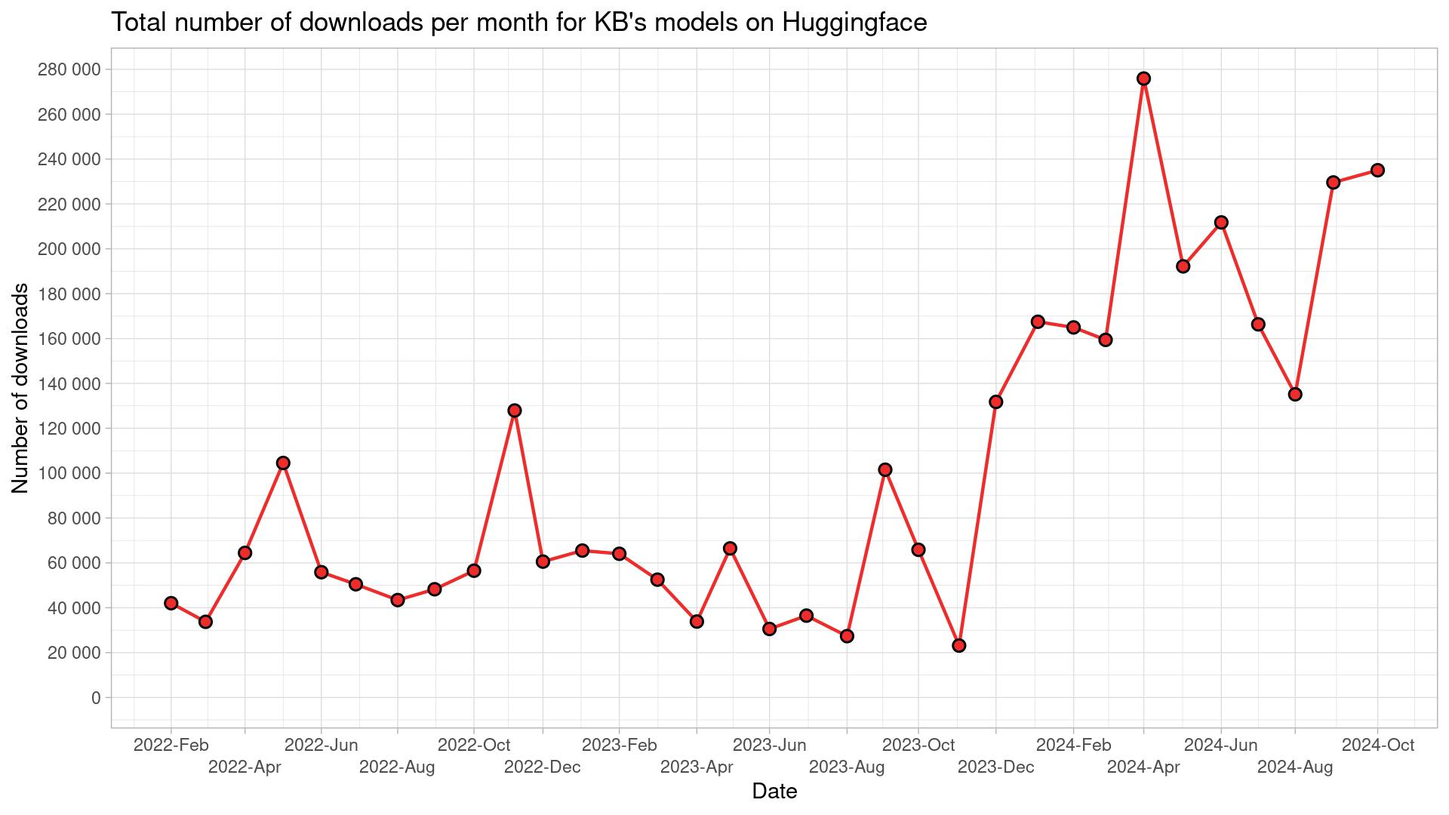
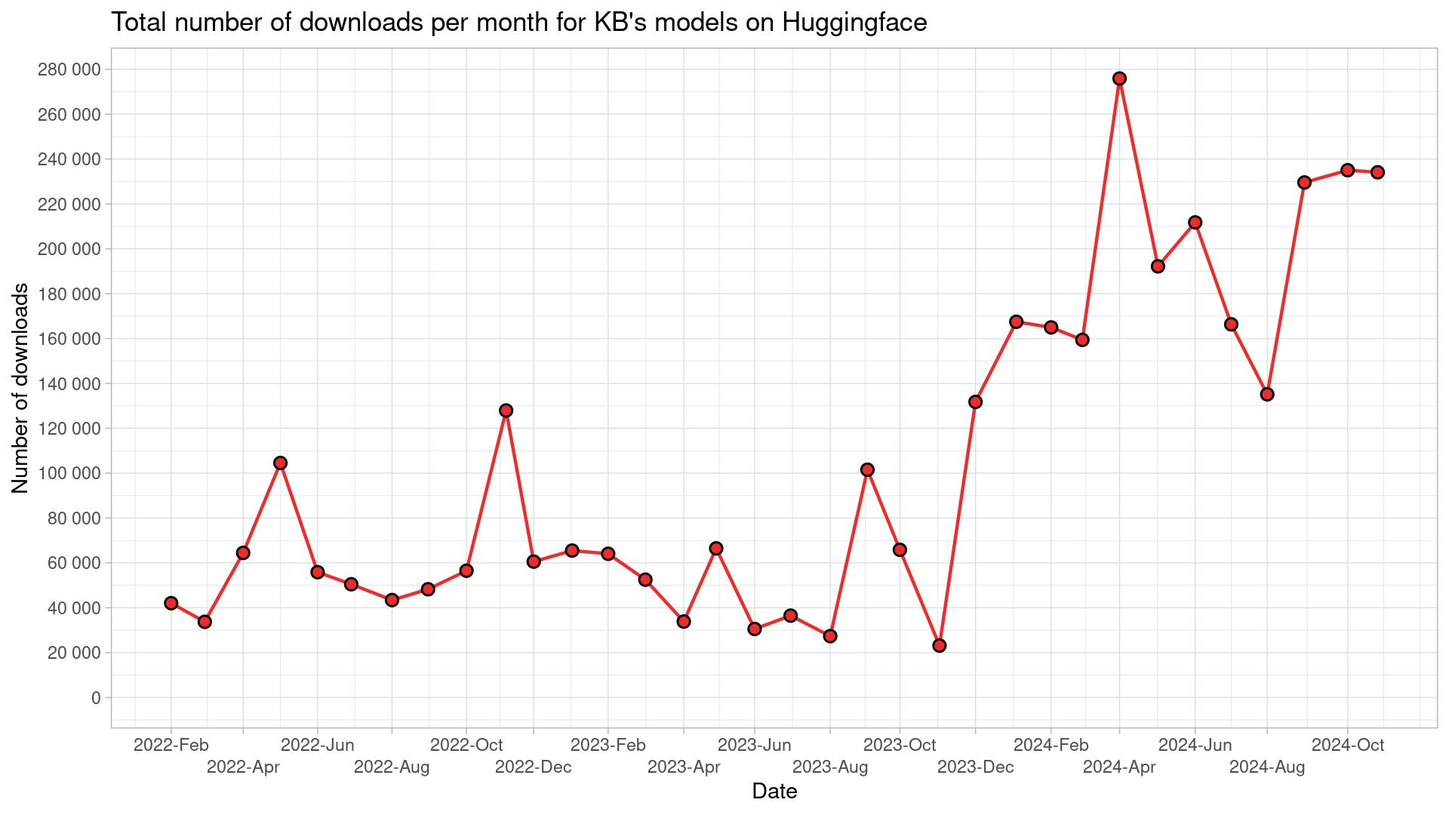
November 2024 update

diff --git a/README.md b/README.md
@@ -12,62 +12,62 @@ Script is run monthly, and a monthly `csv`-file outputted to `/data` folder.
 
 ## Table of downloads
 
-|model_name                                           | 2022-02| 2022-03| 2022-04| 2022-05| 2022-06| 2022-07| 2022-08| 2022-09| 2022-10| 2022-11| 2022-12| 2023-01| 2023-02| 2023-03| 2023-04| 2023-05| 2023-06| 2023-07| 2023-08| 2023-09| 2023-10| 2023-11| 2023-12| 2024-01| 2024-02| 2024-03| 2024-04| 2024-05| 2024-06| 2024-07| 2024-08| 2024-09| 2024-10|
-|:----------------------------------------------------|-------:|-------:|-------:|-------:|-------:|-------:|-------:|-------:|-------:|-------:|-------:|-------:|-------:|-------:|-------:|-------:|-------:|-------:|-------:|-------:|-------:|-------:|-------:|-------:|-------:|-------:|-------:|-------:|-------:|-------:|-------:|-------:|-------:|
-|albert-base-swedish-cased-alpha                      |     126|     252|      61|      52|      52|      28|      31|      17|      30|      64|     229|      37|      32|      75|      13|      17|      24|      39|      14|      18|       4|      71|      75|      74|      20|      27|     100|     220|      31|      19|      19|     116|      14|
-|asr-voxrex-bart-base                                 |      11|      10|      19|       5|       2|       1|       1|       3|       2|       3|       2|       4|       9|      15|       7|       2|       4|       7|       4|       3|       8|       2|       5|       1|       6|       8|       5|       8|       8|      50|       6|      20|      12|
-|bart-base-swedish-cased                              |      74|      12|     116|     126|      32|      18|      41|      56|      81|       6|       9|      18|      41|      70|     110|      60|      50|      40|      23|       9|      63|      44|      42|      11|     129|      14|     119|      14|      56|      32|     288|      19|      42|
-|bert-base-swedish-cased                              |   16509|   25080|   49286|   82528|   38802|   29511|   17012|   25106|   36702|   92636|   44016|   28164|   47819|   28864|   17684|   28878|   16390|   24502|   16303|   54271|   29238|    6625|    7620|   17149|    8106|    6290|   10094|    6253|   21139|   15689|    4996|    7660|    8387|
-|bert-base-swedish-cased-alpha                        |      22|      24|    1362|      34|       8|      73|       7|      14|      14|      14|      10|     160|     151|       6|       9|       5|       6|       9|       2|      12|       3|       4|       5|       3|       5|      11|      15|       2|       9|       8|       7|      14|      14|
-|bert-base-swedish-cased-ner                          |   19891|    3353|    4783|    4221|   12487|   17406|   24290|   20200|   14852|   11251|   10014|    9759|    9957|   14508|    9834|   12293|    9868|    9701|    8258|    8767|   14214|   10149|  117977|  143050|  139912|  131659|  148695|  144309|  149658|  100264|   93427|  159109|  144069|
-|bert-base-swedish-cased-neriob                       |       8|      87|      34|      25|       4|      44|       2|       1|      62|      10|       5|      31|       5|       8|       6|       6|       9|      18|       2|       1|       0|      19|       8|       5|       5|      11|      15|       3|      22|       7|      10|      26|      17|
-|bert-base-swedish-cased-new                          |      NA|       0|     377|    1069|     786|      10|     238|      69|     225|     168|     163|      46|      44|     352|     303|      33|      52|      69|      73|     211|      96|      84|      30|      34|       5|      53|      59|     279|      76|      27|       8|     750|    1045|
-|bert-base-swedish-cased-pos                          |     428|     179|     107|     104|     168|     310|       2|       2|     467|    7959|    2083|   21410|    1713|     300|      15|      28|      58|      64|       9|      75|      28|     312|     159|     166|     239|      33|      20|      12|      80|      32|      15|      47|     104|
-|bert-base-swedish-cased-reallysimple-ner             |       6|      32|       9|       7|      11|      10|       3|       8|      10|      17|       4|      16|     159|     401|     211|     334|     327|     326|      74|     152|     341|     304|     274|       3|       7|      14|      14|       4|      12|       6|      11|      35|      17|
-|bert-base-swedish-cased-squad-experimental           |     323|     136|      45|      23|      40|     182|      25|      27|     101|      10|      22|      62|      56|     643|     130|   16262|      29|      29|       4|      16|      10|     280|      64|      34|     275|      30|      44|       4|      13|      36|      47|      46|      15|
-|bert-base-swedish-lowermix-reallysimple-ner          |       6|     453|     248|     312|     901|     991|     930|     871|    2274|    3958|    1963|    3010|    2567|    2485|    3919|    6258|    2875|     121|      53|     417|    4874|     769|     327|     713|      81|     111|     696|     104|     623|      31|      33|     261|      40|
-|electra-base-swedish-cased-discriminator             |     317|     143|     149|    1404|       2|       3|       3|       3|       2|       5|       0|       7|       2|       0|       6|       7|       4|       8|       0|       1|       0|       4|       0|       1|       4|       5|      15|       2|       5|       4|       4|       4|       3|
-|electra-base-swedish-cased-generator                 |       9|      15|      26|      31|       2|      19|       1|      18|       1|       9|       4|      10|       4|      14|      88|      78|     107|      72|       3|      15|      39|      12|       7|      11|       8|      52|      53|       6|      27|       2|       5|       5|       2|
-|electra-small-swedish-cased-discriminator            |      12|       5|    1467|    3804|      10|       5|       2|       2|       2|      10|       8|      12|     153|       1|       9|       2|       6|       4|      18|       6|       0|       3|       0|       7|      11|      13|       9|       4|       9|       7|      14|       8|      10|
-|electra-small-swedish-cased-generator                |      NA|       3|     138|      14|       4|      19|       2|       3|       4|       8|       6|      11|       4|       3|       6|      14|       4|       9|       0|       1|       0|     131|       5|       3|       5|       9|      13|       2|      10|       4|       9|       8|       3|
-|emotional-classification                             |      NA|      NA|      NA|      NA|      NA|      NA|      NA|      NA|      NA|      NA|      NA|      NA|      NA|      NA|      NA|      NA|      NA|     155|       3|       1|       2|      27|       9|       0|       0|      13|      63|       1|       8|       2|       8|     597|      33|
-|megatron-bert-base-swedish-cased-125k                |      NA|       0|     353|       0|       2|       8|       1|       3|     131|      55|     158|      27|      21|      19|       7|       6|      10|      10|       4|       2|       0|       4|      29|      22|       5|       3|       4|      67|       8|       2|       6|      32|      17|
-|megatron-bert-base-swedish-cased-600k                |      NA|      10|     288|      87|      30|      16|      16|      17|     111|      12|      20|     194|      27|      49|      13|      15|     100|      22|       2|       2|      15|      12|      41|      21|       5|      67|       6|      71|      30|       6|      13|      19|      18|
-|megatron-bert-large-swedish-cased-110k               |      NA|       0|     346|      77|       4|       4|       0|       1|       1|     171|     160|      15|       8|      23|       4|       2|       4|       3|       0|   33671|   14716|      38|      63|     106|      29|      70|      79|      43|      31|      24|      23|       8|      15|
-|megatron-bert-large-swedish-cased-165-zero-shot      |      NA|      NA|      NA|      NA|      NA|      NA|      NA|      NA|      NA|      NA|       5|      55|      26|      63|      20|     621|      69|     135|      58|     170|      48|     243|     123|      40|     127|     147|      56|     123|     119|       7|      27|      40|      98|
-|megatron-bert-large-swedish-cased-165k               |      NA|      NA|       9|      13|      40|      19|      53|       2|      18|     336|     327|      21|      34|      67|      43|      56|      36|      52|      13|      86|      37|      12|     343|     153|      24|      18|      24|      15|      15|       3|       5|       9|      39|
-|megatron.bert-base.bpe-32k-no_pretok.25k-steps       |      NA|      NA|      NA|      NA|      NA|      NA|      NA|      NA|      NA|      NA|      NA|      NA|      NA|      NA|      NA|      NA|      NA|      NA|      NA|      NA|      NA|      NA|      NA|      NA|      NA|      NA|      NA|       3|       2|       4|       4|       5|       6|
-|megatron.bert-base.bpe-64k-no_pretok.25k-steps       |      NA|      NA|      NA|      NA|      NA|      NA|      NA|      NA|      NA|      NA|      NA|      NA|      NA|      NA|      NA|      NA|      NA|      NA|      NA|      NA|      NA|      NA|      NA|      NA|      NA|      NA|      NA|       3|       3|       3|       5|       4|       3|
-|megatron.bert-base.spe-bpe-32k-no_pretok.25k-steps   |      NA|      NA|      NA|      NA|      NA|      NA|      NA|      NA|      NA|      NA|      NA|      NA|      NA|      NA|      NA|      NA|      NA|      NA|      NA|      NA|      NA|      NA|      NA|      NA|      NA|      NA|      NA|       3|       3|       3|       4|       4|       6|
-|megatron.bert-base.spe-bpe-32k-pretok.25k-steps      |      NA|      NA|      NA|      NA|      NA|      NA|      NA|      NA|      NA|      NA|      NA|      NA|      NA|      NA|      NA|      NA|      NA|      NA|      NA|      NA|      NA|      NA|      NA|      NA|      NA|      NA|      NA|       3|       3|       3|       4|       4|       4|
-|megatron.bert-base.spe-bpe-64k-no_pretok.25k-steps   |      NA|      NA|      NA|      NA|      NA|      NA|      NA|      NA|      NA|      NA|      NA|      NA|      NA|      NA|      NA|      NA|      NA|      NA|      NA|      NA|      NA|      NA|      NA|      NA|      NA|      NA|      NA|       3|       3|       4|       4|       4|       0|
-|megatron.bert-base.spe-bpe-64k-pretok.25k-steps      |      NA|      NA|      NA|      NA|      NA|      NA|      NA|      NA|      NA|      NA|      NA|      NA|      NA|      NA|      NA|      NA|      NA|      NA|      NA|      NA|      NA|      NA|      NA|      NA|      NA|      NA|      NA|       3|       3|       2|       4|       5|       2|
-|megatron.bert-base.unigram-32k-no_pretok.25k-steps   |      NA|      NA|      NA|      NA|      NA|      NA|      NA|      NA|      NA|      NA|      NA|      NA|      NA|      NA|      NA|      NA|      NA|      NA|      NA|      NA|      NA|      NA|      NA|      NA|      NA|      NA|      NA|       3|       3|       3|       4|       4|       7|
-|megatron.bert-base.unigram-32k-pretok.25k-steps      |      NA|      NA|      NA|      NA|      NA|      NA|      NA|      NA|      NA|      NA|      NA|      NA|      NA|      NA|      NA|      NA|      NA|      NA|      NA|      NA|      NA|      NA|      NA|      NA|      NA|      NA|      NA|       3|       3|       3|       4|       3|       3|
-|megatron.bert-base.unigram-64k-no_pretok.25k-steps   |      NA|      NA|      NA|      NA|      NA|      NA|      NA|      NA|      NA|      NA|      NA|      NA|      NA|      NA|      NA|      NA|      NA|      NA|      NA|      NA|      NA|      NA|      NA|      NA|      NA|      NA|      NA|       3|       3|       3|       5|       4|       4|
-|megatron.bert-base.unigram-64k-pretok.25k-steps      |      NA|      NA|      NA|      NA|      NA|      NA|      NA|      NA|      NA|      NA|      NA|      NA|      NA|      NA|      NA|      NA|      NA|      NA|      NA|      NA|      NA|      NA|      NA|      NA|      NA|      NA|      NA|       3|       4|       3|       4|       4|       8|
-|megatron.bert-base.wordpiece-32k-no_pretok.25k-steps |      NA|      NA|      NA|      NA|      NA|      NA|      NA|      NA|      NA|      NA|      NA|      NA|      NA|      NA|      NA|      NA|      NA|      NA|      NA|      NA|      NA|      NA|      NA|      NA|      NA|      NA|      NA|       3|       3|       3|       4|       4|      15|
-|megatron.bert-base.wordpiece-32k-pretok.25k-steps    |      NA|      NA|      NA|      NA|      NA|      NA|      NA|      NA|      NA|      NA|      NA|      NA|      NA|      NA|      NA|      NA|      NA|      NA|      NA|      NA|      NA|      NA|      NA|      NA|      NA|      NA|      NA|       9|       3|       3|       5|       5|       7|
-|megatron.bert-base.wordpiece-64k-no_pretok.25k-steps |      NA|      NA|      NA|      NA|      NA|      NA|      NA|      NA|      NA|      NA|      NA|      NA|      NA|      NA|      NA|      NA|      NA|      NA|      NA|      NA|      NA|      NA|      NA|      NA|      NA|      NA|      NA|       3|       3|       3|       5|       6|       5|
-|megatron.bert-base.wordpiece-64k-pretok.25k-steps    |      NA|      NA|      NA|      NA|      NA|      NA|      NA|      NA|      NA|      NA|      NA|      NA|      NA|      NA|      NA|      NA|      NA|      NA|      NA|      NA|      NA|      NA|      NA|      NA|      NA|      NA|      NA|       3|       3|       2|       4|      13|       4|
-|megatron.bert-large.bpe-64k-no_pretok.25k-steps      |      NA|      NA|      NA|      NA|      NA|      NA|      NA|      NA|      NA|      NA|      NA|      NA|      NA|      NA|      NA|      NA|      NA|      NA|      NA|      NA|      NA|      NA|      NA|      NA|      NA|      NA|      NA|       3|       3|       3|       4|       6|       4|
-|megatron.bert-large.spe-bpe-32k-pretok.25k-steps     |      NA|      NA|      NA|      NA|      NA|      NA|      NA|      NA|      NA|      NA|      NA|      NA|      NA|      NA|      NA|      NA|      NA|      NA|      NA|      NA|      NA|      NA|      NA|      NA|      NA|      NA|      NA|       3|       3|       3|       4|       7|      13|
-|megatron.bert-large.unigram-32k-pretok.25k-steps     |      NA|      NA|      NA|      NA|      NA|      NA|      NA|      NA|      NA|      NA|      NA|      NA|      NA|      NA|      NA|      NA|      NA|      NA|      NA|      NA|      NA|      NA|      NA|      NA|      NA|      NA|      NA|       3|       3|       2|       4|       5|       7|
-|megatron.bert-large.unigram-64k-pretok.25k-steps     |      NA|      NA|      NA|      NA|      NA|      NA|      NA|      NA|      NA|      NA|      NA|      NA|      NA|      NA|      NA|      NA|      NA|      NA|      NA|      NA|      NA|      NA|      NA|      NA|      NA|      NA|      NA|       3|       3|       3|       5|       7|       2|
-|megatron.bert-large.unigram-64k-pretok.500k-steps    |      NA|      NA|      NA|      NA|      NA|      NA|      NA|      NA|      NA|      NA|      NA|      NA|      NA|      NA|      NA|      NA|      NA|      NA|      NA|      NA|      NA|      NA|      NA|      NA|      NA|     310|      11|       1|       1|       2|       4|       5|       7|
-|megatron.bert-large.wordpiece-32k-pretok.25k-steps   |      NA|      NA|      NA|      NA|      NA|      NA|      NA|      NA|      NA|      NA|      NA|      NA|      NA|      NA|      NA|      NA|      NA|      NA|      NA|      NA|      NA|      NA|      NA|      NA|      NA|      NA|      NA|       3|       3|       3|       5|       6|       6|
-|megatron.bert-large.wordpiece-64k-pretok.25k-steps   |      NA|      NA|      NA|      NA|      NA|      NA|      NA|      NA|      NA|      NA|      NA|      NA|      NA|      NA|      NA|      NA|      NA|      NA|      NA|      NA|      NA|      NA|      NA|      NA|      NA|      NA|      NA|       9|       4|       3|       5|       5|       7|
-|piper-tts-nst-swedish                                |      NA|      NA|      NA|      NA|      NA|      NA|      NA|      NA|      NA|      NA|      NA|      NA|      NA|      NA|      NA|       1|       8|       3|       0|       0|       0|       1|       0|       0|       0|       3|       7|      11|       3|       1|       6|       1|       8|
-|roberta-base-swedish-cased                           |       7|       7|     471|       8|      78|       5|      67|       2|       0|       5|       5|      37|     150|       3|       6|     204|      10|       9|       1|       2|       2|       2|       3|       3|      30|      15|       9|       3|      10|       3|       8|       7|       8|
-|robust-swedish-sentiment-multiclass                  |      NA|      NA|      NA|      NA|      NA|      NA|      NA|      NA|      NA|      NA|      NA|      NA|      NA|      NA|      NA|      NA|      12|     296|       8|      58|     119|    1505|    2263|    2206|    2178|    2895|    7783|    2968|    5544|   36910|    5320|   10749|    5771|
-|sentence-bert-swedish-cased                          |    2033|    1988|    2079|    8110|     721|    1299|     304|    1157|     597|    1008|     887|    1441|     546|    3499|     955|     970|     327|     328|    2135|    2841|    1071|    1067|    1258|     383|    1733|    6143|  101722|    8376|   15360|    1376|    1874|   23133|    6131|
-|swedish-ocr-correction                               |      NA|      NA|      NA|      NA|      NA|      NA|      NA|      NA|      NA|      NA|      NA|      NA|      NA|      NA|      NA|      NA|      NA|      NA|      NA|      NA|      NA|      NA|      NA|      NA|      NA|      NA|      NA|      NA|      NA|      NA|      NA|      NA|      16|
-|swedish-spacy-pipeline                               |      65|      22|       5|       2|       5|       9|       1|       2|       0|       1|       3|       4|       6|      90|       3|       1|       0|       1|       3|       9|       5|       5|       5|       3|      56|       5|       4|       2|       2|       8|       9|       5|      28|
-|wav2vec2-base-voxpopuli-sv-swedish                   |      NA|      21|      19|       7|       1|      NA|       1|       5|      99|       6|       2|      13|      57|      12|      56|       4|      26|       9|       0|       1|       7|       4|       2|     113|       5|       6|      12|       4|       9|       6|      14|      27|      20|
-|wav2vec2-large-voxpopuli-sv-swedish                  |      58|      32|      73|      57|      24|       5|       5|      11|      59|      15|       7|      23|       9|      10|      13|      10|       7|      14|       4|       1|       5|      26|       2|       3|      12|     117|      14|      13|       2|      19|      12|      14|      41|
-|wav2vec2-large-voxrex                                |     780|     609|     996|      57|     102|      55|      13|      34|      74|       4|       0|      56|      17|      11|       8|      17|       4|      15|       2|       1|      13|       6|       3|       1|      12|      10|      10|      20|      18|       8|      13|      94|      35|
-|wav2vec2-large-voxrex-swedish                        |    1356|    1151|    1534|    2331|    1277|     334|     361|     611|     531|   10157|     146|     770|     411|     732|     290|     225|      65|     330|     217|     624|     752|     769|     829|     392|    3000|    2389|    3129|    4330|    5762|    7066|   20122|    7507|   38441|
-|wav2vec2-large-xlsr-53-swedish                       |      NA|     112|      55|      32|     259|      91|      19|       9|      61|      26|     307|      71|      32|      76|      26|      31|      45|      65|      50|      77|     126|     586|     188|    2766|    8897|    8785|    2962|   24811|   12976|    4572|    8654|   19055|   30321|
-|whisper-large-rixvox                                 |      NA|      NA|      NA|      NA|      NA|      NA|      NA|      NA|      NA|      NA|      NA|      NA|      NA|     113|      56|       8|       9|      12|       9|       6|       0|      16|       0|       2|      19|      38|      18|      12|      11|      31|       8|      28|      57|
-|whisper-small-rixvox                                 |      NA|      NA|      NA|      NA|      NA|      NA|      NA|      NA|      NA|      NA|      NA|      NA|      NA|       3|       1|       6|       2|       7|       0|       0|       0|       1|       0|       0|       0|      13|       2|       1|       7|       1|       6|       4|       3|
-|whisper-tiny-rixvox                                  |      NA|      NA|      NA|      NA|      NA|      NA|      NA|      NA|      NA|      NA|      NA|      NA|      NA|       9|       1|       5|       4|       7|       3|       0|       0|       1|       0|       0|       2|      12|       6|       1|       7|       1|       5|       3|       9|
+|model_name                                           | 2022-02| 2022-03| 2022-04| 2022-05| 2022-06| 2022-07| 2022-08| 2022-09| 2022-10| 2022-11| 2022-12| 2023-01| 2023-02| 2023-03| 2023-04| 2023-05| 2023-06| 2023-07| 2023-08| 2023-09| 2023-10| 2023-11| 2023-12| 2024-01| 2024-02| 2024-03| 2024-04| 2024-05| 2024-06| 2024-07| 2024-08| 2024-09| 2024-10| 2024-11|
+|:----------------------------------------------------|-------:|-------:|-------:|-------:|-------:|-------:|-------:|-------:|-------:|-------:|-------:|-------:|-------:|-------:|-------:|-------:|-------:|-------:|-------:|-------:|-------:|-------:|-------:|-------:|-------:|-------:|-------:|-------:|-------:|-------:|-------:|-------:|-------:|-------:|
+|albert-base-swedish-cased-alpha                      |     126|     252|      61|      52|      52|      28|      31|      17|      30|      64|     229|      37|      32|      75|      13|      17|      24|      39|      14|      18|       4|      71|      75|      74|      20|      27|     100|     220|      31|      19|      19|     116|      14|      22|
+|asr-voxrex-bart-base                                 |      11|      10|      19|       5|       2|       1|       1|       3|       2|       3|       2|       4|       9|      15|       7|       2|       4|       7|       4|       3|       8|       2|       5|       1|       6|       8|       5|       8|       8|      50|       6|      20|      12|      29|
+|bart-base-swedish-cased                              |      74|      12|     116|     126|      32|      18|      41|      56|      81|       6|       9|      18|      41|      70|     110|      60|      50|      40|      23|       9|      63|      44|      42|      11|     129|      14|     119|      14|      56|      32|     288|      19|      42|     265|
+|bert-base-swedish-cased                              |   16509|   25080|   49286|   82528|   38802|   29511|   17012|   25106|   36702|   92636|   44016|   28164|   47819|   28864|   17684|   28878|   16390|   24502|   16303|   54271|   29238|    6625|    7620|   17149|    8106|    6290|   10094|    6253|   21139|   15689|    4996|    7660|    8387|   16895|
+|bert-base-swedish-cased-alpha                        |      22|      24|    1362|      34|       8|      73|       7|      14|      14|      14|      10|     160|     151|       6|       9|       5|       6|       9|       2|      12|       3|       4|       5|       3|       5|      11|      15|       2|       9|       8|       7|      14|      14|       8|
+|bert-base-swedish-cased-ner                          |   19891|    3353|    4783|    4221|   12487|   17406|   24290|   20200|   14852|   11251|   10014|    9759|    9957|   14508|    9834|   12293|    9868|    9701|    8258|    8767|   14214|   10149|  117977|  143050|  139912|  131659|  148695|  144309|  149658|  100264|   93427|  159109|  144069|  124514|
+|bert-base-swedish-cased-neriob                       |       8|      87|      34|      25|       4|      44|       2|       1|      62|      10|       5|      31|       5|       8|       6|       6|       9|      18|       2|       1|       0|      19|       8|       5|       5|      11|      15|       3|      22|       7|      10|      26|      17|      22|
+|bert-base-swedish-cased-new                          |      NA|       0|     377|    1069|     786|      10|     238|      69|     225|     168|     163|      46|      44|     352|     303|      33|      52|      69|      73|     211|      96|      84|      30|      34|       5|      53|      59|     279|      76|      27|       8|     750|    1045|     421|
+|bert-base-swedish-cased-pos                          |     428|     179|     107|     104|     168|     310|       2|       2|     467|    7959|    2083|   21410|    1713|     300|      15|      28|      58|      64|       9|      75|      28|     312|     159|     166|     239|      33|      20|      12|      80|      32|      15|      47|     104|      43|
+|bert-base-swedish-cased-reallysimple-ner             |       6|      32|       9|       7|      11|      10|       3|       8|      10|      17|       4|      16|     159|     401|     211|     334|     327|     326|      74|     152|     341|     304|     274|       3|       7|      14|      14|       4|      12|       6|      11|      35|      17|      10|
+|bert-base-swedish-cased-squad-experimental           |     323|     136|      45|      23|      40|     182|      25|      27|     101|      10|      22|      62|      56|     643|     130|   16262|      29|      29|       4|      16|      10|     280|      64|      34|     275|      30|      44|       4|      13|      36|      47|      46|      15|      18|
+|bert-base-swedish-lowermix-reallysimple-ner          |       6|     453|     248|     312|     901|     991|     930|     871|    2274|    3958|    1963|    3010|    2567|    2485|    3919|    6258|    2875|     121|      53|     417|    4874|     769|     327|     713|      81|     111|     696|     104|     623|      31|      33|     261|      40|      38|
+|electra-base-swedish-cased-discriminator             |     317|     143|     149|    1404|       2|       3|       3|       3|       2|       5|       0|       7|       2|       0|       6|       7|       4|       8|       0|       1|       0|       4|       0|       1|       4|       5|      15|       2|       5|       4|       4|       4|       3|       2|
+|electra-base-swedish-cased-generator                 |       9|      15|      26|      31|       2|      19|       1|      18|       1|       9|       4|      10|       4|      14|      88|      78|     107|      72|       3|      15|      39|      12|       7|      11|       8|      52|      53|       6|      27|       2|       5|       5|       2|       4|
+|electra-small-swedish-cased-discriminator            |      12|       5|    1467|    3804|      10|       5|       2|       2|       2|      10|       8|      12|     153|       1|       9|       2|       6|       4|      18|       6|       0|       3|       0|       7|      11|      13|       9|       4|       9|       7|      14|       8|      10|       7|
+|electra-small-swedish-cased-generator                |      NA|       3|     138|      14|       4|      19|       2|       3|       4|       8|       6|      11|       4|       3|       6|      14|       4|       9|       0|       1|       0|     131|       5|       3|       5|       9|      13|       2|      10|       4|       9|       8|       3|       3|
+|emotional-classification                             |      NA|      NA|      NA|      NA|      NA|      NA|      NA|      NA|      NA|      NA|      NA|      NA|      NA|      NA|      NA|      NA|      NA|     155|       3|       1|       2|      27|       9|       0|       0|      13|      63|       1|       8|       2|       8|     597|      33|      20|
+|megatron-bert-base-swedish-cased-125k                |      NA|       0|     353|       0|       2|       8|       1|       3|     131|      55|     158|      27|      21|      19|       7|       6|      10|      10|       4|       2|       0|       4|      29|      22|       5|       3|       4|      67|       8|       2|       6|      32|      17|      27|
+|megatron-bert-base-swedish-cased-600k                |      NA|      10|     288|      87|      30|      16|      16|      17|     111|      12|      20|     194|      27|      49|      13|      15|     100|      22|       2|       2|      15|      12|      41|      21|       5|      67|       6|      71|      30|       6|      13|      19|      18|      27|
+|megatron-bert-large-swedish-cased-110k               |      NA|       0|     346|      77|       4|       4|       0|       1|       1|     171|     160|      15|       8|      23|       4|       2|       4|       3|       0|   33671|   14716|      38|      63|     106|      29|      70|      79|      43|      31|      24|      23|       8|      15|      21|
+|megatron-bert-large-swedish-cased-165-zero-shot      |      NA|      NA|      NA|      NA|      NA|      NA|      NA|      NA|      NA|      NA|       5|      55|      26|      63|      20|     621|      69|     135|      58|     170|      48|     243|     123|      40|     127|     147|      56|     123|     119|       7|      27|      40|      98|     217|
+|megatron-bert-large-swedish-cased-165k               |      NA|      NA|       9|      13|      40|      19|      53|       2|      18|     336|     327|      21|      34|      67|      43|      56|      36|      52|      13|      86|      37|      12|     343|     153|      24|      18|      24|      15|      15|       3|       5|       9|      39|     342|
+|megatron.bert-base.bpe-32k-no_pretok.25k-steps       |      NA|      NA|      NA|      NA|      NA|      NA|      NA|      NA|      NA|      NA|      NA|      NA|      NA|      NA|      NA|      NA|      NA|      NA|      NA|      NA|      NA|      NA|      NA|      NA|      NA|      NA|      NA|       3|       2|       4|       4|       5|       6|       2|
+|megatron.bert-base.bpe-64k-no_pretok.25k-steps       |      NA|      NA|      NA|      NA|      NA|      NA|      NA|      NA|      NA|      NA|      NA|      NA|      NA|      NA|      NA|      NA|      NA|      NA|      NA|      NA|      NA|      NA|      NA|      NA|      NA|      NA|      NA|       3|       3|       3|       5|       4|       3|       2|
+|megatron.bert-base.spe-bpe-32k-no_pretok.25k-steps   |      NA|      NA|      NA|      NA|      NA|      NA|      NA|      NA|      NA|      NA|      NA|      NA|      NA|      NA|      NA|      NA|      NA|      NA|      NA|      NA|      NA|      NA|      NA|      NA|      NA|      NA|      NA|       3|       3|       3|       4|       4|       6|       4|
+|megatron.bert-base.spe-bpe-32k-pretok.25k-steps      |      NA|      NA|      NA|      NA|      NA|      NA|      NA|      NA|      NA|      NA|      NA|      NA|      NA|      NA|      NA|      NA|      NA|      NA|      NA|      NA|      NA|      NA|      NA|      NA|      NA|      NA|      NA|       3|       3|       3|       4|       4|       4|       2|
+|megatron.bert-base.spe-bpe-64k-no_pretok.25k-steps   |      NA|      NA|      NA|      NA|      NA|      NA|      NA|      NA|      NA|      NA|      NA|      NA|      NA|      NA|      NA|      NA|      NA|      NA|      NA|      NA|      NA|      NA|      NA|      NA|      NA|      NA|      NA|       3|       3|       4|       4|       4|       0|       2|
+|megatron.bert-base.spe-bpe-64k-pretok.25k-steps      |      NA|      NA|      NA|      NA|      NA|      NA|      NA|      NA|      NA|      NA|      NA|      NA|      NA|      NA|      NA|      NA|      NA|      NA|      NA|      NA|      NA|      NA|      NA|      NA|      NA|      NA|      NA|       3|       3|       2|       4|       5|       2|       2|
+|megatron.bert-base.unigram-32k-no_pretok.25k-steps   |      NA|      NA|      NA|      NA|      NA|      NA|      NA|      NA|      NA|      NA|      NA|      NA|      NA|      NA|      NA|      NA|      NA|      NA|      NA|      NA|      NA|      NA|      NA|      NA|      NA|      NA|      NA|       3|       3|       3|       4|       4|       7|       0|
+|megatron.bert-base.unigram-32k-pretok.25k-steps      |      NA|      NA|      NA|      NA|      NA|      NA|      NA|      NA|      NA|      NA|      NA|      NA|      NA|      NA|      NA|      NA|      NA|      NA|      NA|      NA|      NA|      NA|      NA|      NA|      NA|      NA|      NA|       3|       3|       3|       4|       3|       3|       2|
+|megatron.bert-base.unigram-64k-no_pretok.25k-steps   |      NA|      NA|      NA|      NA|      NA|      NA|      NA|      NA|      NA|      NA|      NA|      NA|      NA|      NA|      NA|      NA|      NA|      NA|      NA|      NA|      NA|      NA|      NA|      NA|      NA|      NA|      NA|       3|       3|       3|       5|       4|       4|       0|
+|megatron.bert-base.unigram-64k-pretok.25k-steps      |      NA|      NA|      NA|      NA|      NA|      NA|      NA|      NA|      NA|      NA|      NA|      NA|      NA|      NA|      NA|      NA|      NA|      NA|      NA|      NA|      NA|      NA|      NA|      NA|      NA|      NA|      NA|       3|       4|       3|       4|       4|       8|       2|
+|megatron.bert-base.wordpiece-32k-no_pretok.25k-steps |      NA|      NA|      NA|      NA|      NA|      NA|      NA|      NA|      NA|      NA|      NA|      NA|      NA|      NA|      NA|      NA|      NA|      NA|      NA|      NA|      NA|      NA|      NA|      NA|      NA|      NA|      NA|       3|       3|       3|       4|       4|      15|       1|
+|megatron.bert-base.wordpiece-32k-pretok.25k-steps    |      NA|      NA|      NA|      NA|      NA|      NA|      NA|      NA|      NA|      NA|      NA|      NA|      NA|      NA|      NA|      NA|      NA|      NA|      NA|      NA|      NA|      NA|      NA|      NA|      NA|      NA|      NA|       9|       3|       3|       5|       5|       7|       3|
+|megatron.bert-base.wordpiece-64k-no_pretok.25k-steps |      NA|      NA|      NA|      NA|      NA|      NA|      NA|      NA|      NA|      NA|      NA|      NA|      NA|      NA|      NA|      NA|      NA|      NA|      NA|      NA|      NA|      NA|      NA|      NA|      NA|      NA|      NA|       3|       3|       3|       5|       6|       5|       2|
+|megatron.bert-base.wordpiece-64k-pretok.25k-steps    |      NA|      NA|      NA|      NA|      NA|      NA|      NA|      NA|      NA|      NA|      NA|      NA|      NA|      NA|      NA|      NA|      NA|      NA|      NA|      NA|      NA|      NA|      NA|      NA|      NA|      NA|      NA|       3|       3|       2|       4|      13|       4|       2|
+|megatron.bert-large.bpe-64k-no_pretok.25k-steps      |      NA|      NA|      NA|      NA|      NA|      NA|      NA|      NA|      NA|      NA|      NA|      NA|      NA|      NA|      NA|      NA|      NA|      NA|      NA|      NA|      NA|      NA|      NA|      NA|      NA|      NA|      NA|       3|       3|       3|       4|       6|       4|       3|
+|megatron.bert-large.spe-bpe-32k-pretok.25k-steps     |      NA|      NA|      NA|      NA|      NA|      NA|      NA|      NA|      NA|      NA|      NA|      NA|      NA|      NA|      NA|      NA|      NA|      NA|      NA|      NA|      NA|      NA|      NA|      NA|      NA|      NA|      NA|       3|       3|       3|       4|       7|      13|       3|
+|megatron.bert-large.unigram-32k-pretok.25k-steps     |      NA|      NA|      NA|      NA|      NA|      NA|      NA|      NA|      NA|      NA|      NA|      NA|      NA|      NA|      NA|      NA|      NA|      NA|      NA|      NA|      NA|      NA|      NA|      NA|      NA|      NA|      NA|       3|       3|       2|       4|       5|       7|       4|
+|megatron.bert-large.unigram-64k-pretok.25k-steps     |      NA|      NA|      NA|      NA|      NA|      NA|      NA|      NA|      NA|      NA|      NA|      NA|      NA|      NA|      NA|      NA|      NA|      NA|      NA|      NA|      NA|      NA|      NA|      NA|      NA|      NA|      NA|       3|       3|       3|       5|       7|       2|       3|
+|megatron.bert-large.unigram-64k-pretok.500k-steps    |      NA|      NA|      NA|      NA|      NA|      NA|      NA|      NA|      NA|      NA|      NA|      NA|      NA|      NA|      NA|      NA|      NA|      NA|      NA|      NA|      NA|      NA|      NA|      NA|      NA|     310|      11|       1|       1|       2|       4|       5|       7|       0|
+|megatron.bert-large.wordpiece-32k-pretok.25k-steps   |      NA|      NA|      NA|      NA|      NA|      NA|      NA|      NA|      NA|      NA|      NA|      NA|      NA|      NA|      NA|      NA|      NA|      NA|      NA|      NA|      NA|      NA|      NA|      NA|      NA|      NA|      NA|       3|       3|       3|       5|       6|       6|       3|
+|megatron.bert-large.wordpiece-64k-pretok.25k-steps   |      NA|      NA|      NA|      NA|      NA|      NA|      NA|      NA|      NA|      NA|      NA|      NA|      NA|      NA|      NA|      NA|      NA|      NA|      NA|      NA|      NA|      NA|      NA|      NA|      NA|      NA|      NA|       9|       4|       3|       5|       5|       7|       2|
+|piper-tts-nst-swedish                                |      NA|      NA|      NA|      NA|      NA|      NA|      NA|      NA|      NA|      NA|      NA|      NA|      NA|      NA|      NA|       1|       8|       3|       0|       0|       0|       1|       0|       0|       0|       3|       7|      11|       3|       1|       6|       1|       8|       6|
+|roberta-base-swedish-cased                           |       7|       7|     471|       8|      78|       5|      67|       2|       0|       5|       5|      37|     150|       3|       6|     204|      10|       9|       1|       2|       2|       2|       3|       3|      30|      15|       9|       3|      10|       3|       8|       7|       8|       3|
+|robust-swedish-sentiment-multiclass                  |      NA|      NA|      NA|      NA|      NA|      NA|      NA|      NA|      NA|      NA|      NA|      NA|      NA|      NA|      NA|      NA|      12|     296|       8|      58|     119|    1505|    2263|    2206|    2178|    2895|    7783|    2968|    5544|   36910|    5320|   10749|    5771|    7277|
+|sentence-bert-swedish-cased                          |    2033|    1988|    2079|    8110|     721|    1299|     304|    1157|     597|    1008|     887|    1441|     546|    3499|     955|     970|     327|     328|    2135|    2841|    1071|    1067|    1258|     383|    1733|    6143|  101722|    8376|   15360|    1376|    1874|   23133|    6131|    4970|
+|swedish-ocr-correction                               |      NA|      NA|      NA|      NA|      NA|      NA|      NA|      NA|      NA|      NA|      NA|      NA|      NA|      NA|      NA|      NA|      NA|      NA|      NA|      NA|      NA|      NA|      NA|      NA|      NA|      NA|      NA|      NA|      NA|      NA|      NA|      NA|      16|      17|
+|swedish-spacy-pipeline                               |      65|      22|       5|       2|       5|       9|       1|       2|       0|       1|       3|       4|       6|      90|       3|       1|       0|       1|       3|       9|       5|       5|       5|       3|      56|       5|       4|       2|       2|       8|       9|       5|      28|       8|
+|wav2vec2-base-voxpopuli-sv-swedish                   |      NA|      21|      19|       7|       1|      NA|       1|       5|      99|       6|       2|      13|      57|      12|      56|       4|      26|       9|       0|       1|       7|       4|       2|     113|       5|       6|      12|       4|       9|       6|      14|      27|      20|      23|
+|wav2vec2-large-voxpopuli-sv-swedish                  |      58|      32|      73|      57|      24|       5|       5|      11|      59|      15|       7|      23|       9|      10|      13|      10|       7|      14|       4|       1|       5|      26|       2|       3|      12|     117|      14|      13|       2|      19|      12|      14|      41|      23|
+|wav2vec2-large-voxrex                                |     780|     609|     996|      57|     102|      55|      13|      34|      74|       4|       0|      56|      17|      11|       8|      17|       4|      15|       2|       1|      13|       6|       3|       1|      12|      10|      10|      20|      18|       8|      13|      94|      35|      53|
+|wav2vec2-large-voxrex-swedish                        |    1356|    1151|    1534|    2331|    1277|     334|     361|     611|     531|   10157|     146|     770|     411|     732|     290|     225|      65|     330|     217|     624|     752|     769|     829|     392|    3000|    2389|    3129|    4330|    5762|    7066|   20122|    7507|   38441|   39341|
+|wav2vec2-large-xlsr-53-swedish                       |      NA|     112|      55|      32|     259|      91|      19|       9|      61|      26|     307|      71|      32|      76|      26|      31|      45|      65|      50|      77|     126|     586|     188|    2766|    8897|    8785|    2962|   24811|   12976|    4572|    8654|   19055|   30321|   39315|
+|whisper-large-rixvox                                 |      NA|      NA|      NA|      NA|      NA|      NA|      NA|      NA|      NA|      NA|      NA|      NA|      NA|     113|      56|       8|       9|      12|       9|       6|       0|      16|       0|       2|      19|      38|      18|      12|      11|      31|       8|      28|      57|      44|
+|whisper-small-rixvox                                 |      NA|      NA|      NA|      NA|      NA|      NA|      NA|      NA|      NA|      NA|      NA|      NA|      NA|       3|       1|       6|       2|       7|       0|       0|       0|       1|       0|       0|       0|      13|       2|       1|       7|       1|       6|       4|       3|       8|
+|whisper-tiny-rixvox                                  |      NA|      NA|      NA|      NA|      NA|      NA|      NA|      NA|      NA|      NA|      NA|      NA|      NA|       9|       1|       5|       4|       7|       3|       0|       0|       1|       0|       0|       2|      12|       6|       1|       7|       1|       5|       3|       9|       7|
